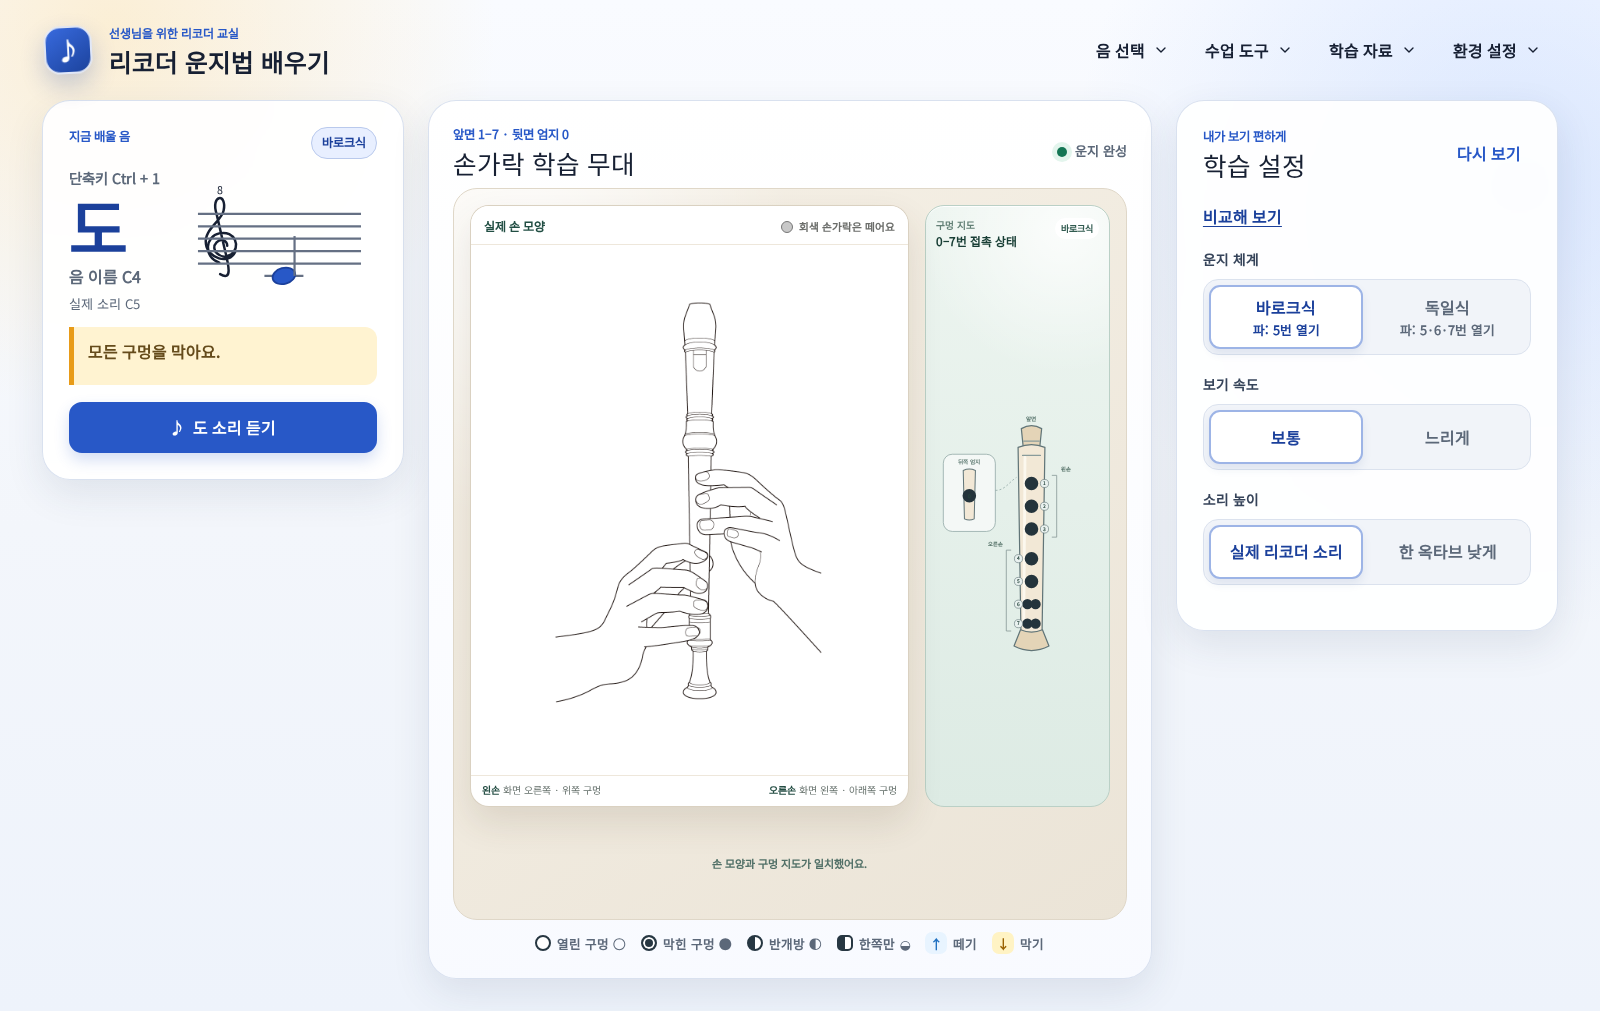
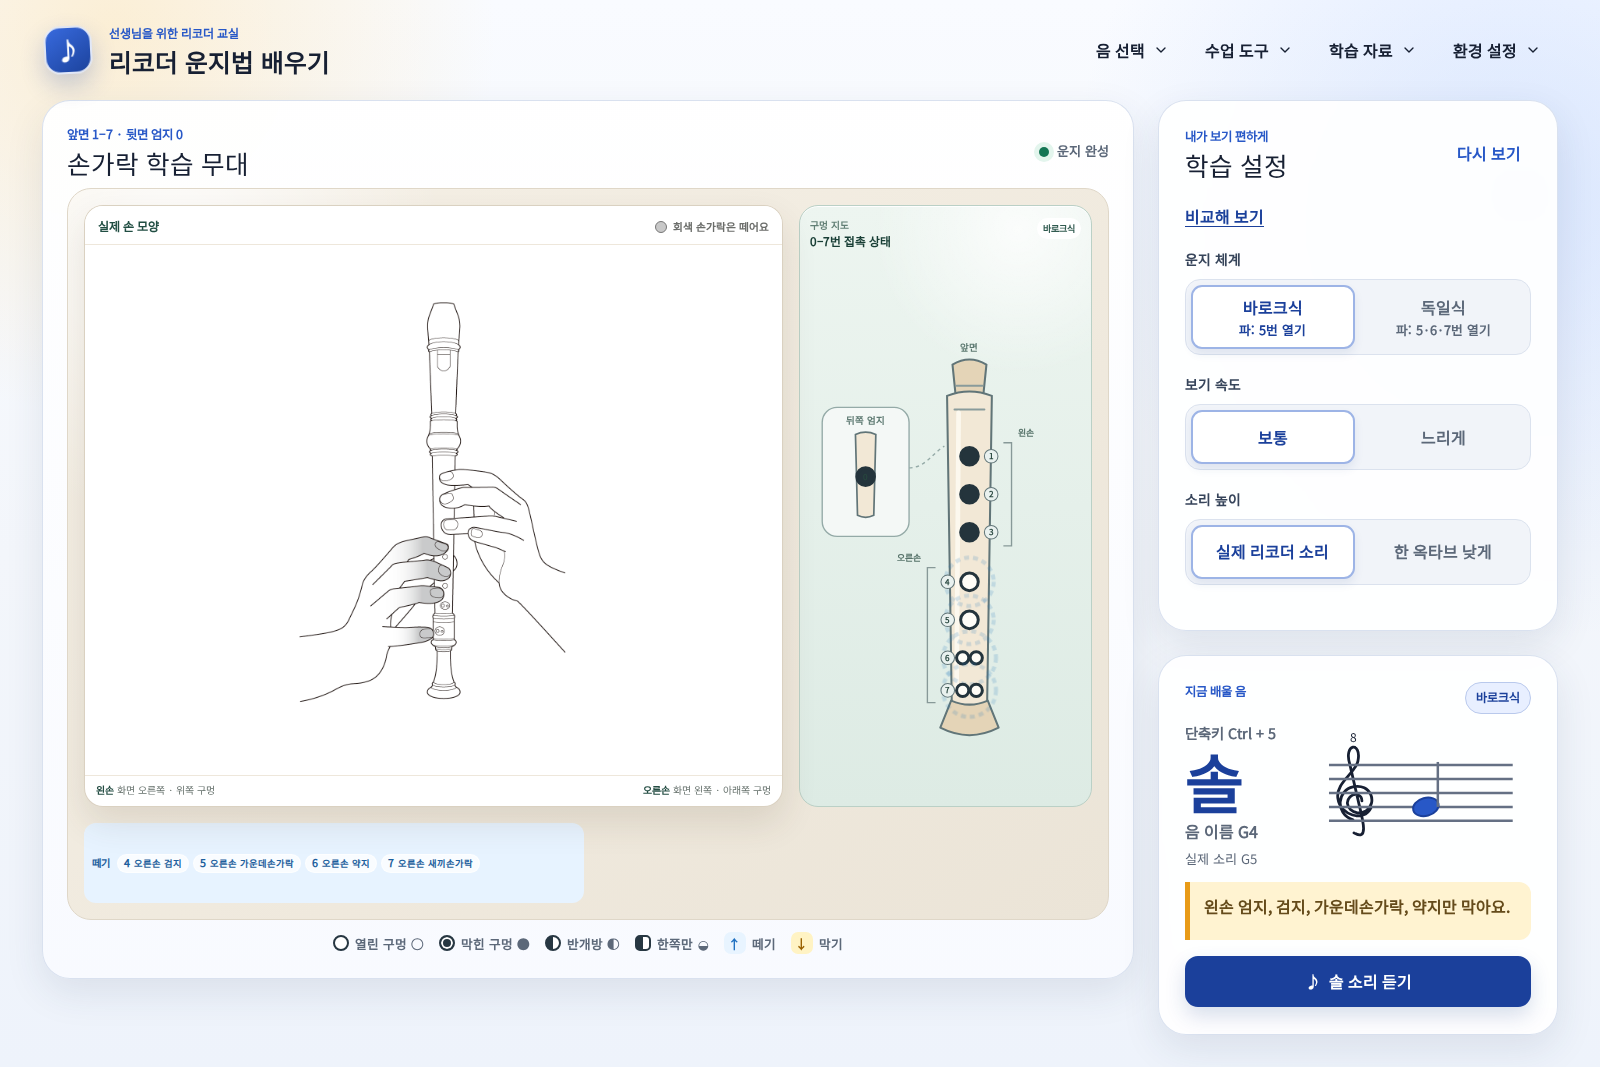
Arrange note panel below settings beside a wider learning stage

diff --git a/app/teacher.css b/app/teacher.css
@@ -1,7 +1,8 @@
 /* Teacher workspace: the three teaching panels stay on the main screen. */
 .recorder-app:not([data-classroom]) .learning-grid {
-  grid-template-columns: minmax(270px, .9fr) minmax(440px, 1.8fr) minmax(300px, .95fr);
-  grid-template-areas: "note scene settings";
+  grid-template-columns: minmax(0, 1fr) minmax(320px, 400px);
+  grid-template-rows: auto 1fr;
+  grid-template-areas: "scene settings" "scene note";
   align-items: start;
 }
 .app-header.teacher-header {
@@ -105,8 +106,7 @@
   .app-header.teacher-header { flex-wrap: wrap; padding-block: 18px; }
   .teacher-navigation { margin-left: auto; }
   .recorder-app:not([data-classroom]) .learning-grid {
-    grid-template-columns: minmax(290px, .85fr) minmax(420px, 1.4fr);
-    grid-template-areas: "note scene" "settings scene";
+    grid-template-columns: minmax(0, 1fr) minmax(300px, .7fr);
     gap: 18px;
   }
 }
@@ -117,7 +117,7 @@
   .teacher-menu-trigger { width: 100%; min-height: 44px; padding: 8px 3px; gap: 4px; font-size: .85rem; }
   .teacher-menu-items { width: 190px; right: auto; left: 0; }
   .teacher-menu:nth-child(n+3) .teacher-menu-items { right: 0; left: auto; }
-  .recorder-app:not([data-classroom]) .learning-grid { grid-template-columns: minmax(0, 1fr); grid-template-areas: "note" "scene" "settings"; gap: 16px; }
+  .recorder-app:not([data-classroom]) .learning-grid { grid-template-columns: minmax(0, 1fr); grid-template-rows: auto; grid-template-areas: "scene" "settings" "note"; gap: 16px; }
   .teacher-dialog-backdrop { padding: 10px; }
   .teacher-dialog { max-height: calc(100dvh - 20px); border-radius: 18px; }
   .teacher-dialog-heading { padding: 16px; }

diff --git a/src/features/recorder/components/RecorderLearningApp.tsx b/src/features/recorder/components/RecorderLearningApp.tsx
@@ -91,16 +91,6 @@ export function RecorderLearningApp() {
       </header>
 
       <main id="learning-stage" className="learning-grid">
-        <div className="note-area" hidden={classroom.active}>
-          <NoteCard
-            note={currentNote}
-            system={system}
-            onPlay={playCurrentNote}
-            muted={preferences.isMuted}
-            shortcutLabel={currentShortcutLabel}
-          />
-        </div>
-
         <section className="card scene-card" aria-labelledby="scene-heading">
           <div className="section-heading-row scene-heading" hidden={classroom.active}>
             <div>
@@ -143,6 +133,15 @@ export function RecorderLearningApp() {
 
         <div className="settings-area" hidden={classroom.active}>
           <SettingsPanel {...settingsProps} />
+        </div>
+        <div className="note-area" hidden={classroom.active}>
+          <NoteCard
+            note={currentNote}
+            system={system}
+            onPlay={playCurrentNote}
+            muted={preferences.isMuted}
+            shortcutLabel={currentShortcutLabel}
+          />
         </div>
         {classroom.active ? <ClassroomControls lesson={lesson} /> : null}
       </main>

diff --git a/e2e/pose-visual.spec.ts b/e2e/pose-visual.spec.ts
@@ -18,6 +18,8 @@ test("twenty aligned poses match reviewed visual baselines", async ({ page }, te
   await page.addStyleTag({ content: `
     .recorder-app:not([data-classroom]) .learning-grid {
       grid-template-columns: minmax(270px, .82fr) minmax(440px, 1.58fr) minmax(315px, .92fr) !important;
+      grid-template-rows: auto !important;
+      grid-template-areas: "note scene settings" !important;
     }
   ` });
   await page.evaluate(() => document.fonts.ready);

diff --git a/README.md b/README.md
@@ -6,6 +6,8 @@
 
 선생님이 수업 중 운지를 크게 보여 줄 수 있도록 메인은 **손가락 학습 무대 · 지금 배울 음 · 학습 설정** 세 영역으로 구성합니다. 학습 설정에는 운지 체계, 보기 속도, 소리 높이만 기본 표시하고 비교해 보기와 다시 보기를 제공합니다. 그 밖의 기능은 다음 상위·하위 메뉴에서 엽니다.
 
+넓은 화면에서는 운지 학습 무대가 왼쪽을 넓게 사용하고, 오른쪽에는 학습 설정과 지금 배울 음이 위아래로 정렬됩니다. 휴대폰에서는 학습 무대 → 학습 설정 → 지금 배울 음 순서로 표시됩니다.
+
 | 상위 메뉴 | 하위 메뉴 |
 |---|---|
 | 음 선택 | 낮은 계이름 · 높은 계이름 · 반음 |

diff --git a/CHANGELOG.md b/CHANGELOG.md
@@ -6,6 +6,7 @@
 
 ### Changed
 
+- 지금 배울 음 패널을 오른쪽 학습 설정 아래로 옮기고, 왼쪽 운지 학습 무대를 넓힌 2열 레이아웃으로 정렬. 화면의 읽기·키보드 탐색 순서도 배치에 맞춤.
 - 선생님용 메인 화면을 손가락 학습 무대, 지금 배울 음, 학습 설정 세 영역으로 정리.
 - 음 선택(낮은 음·높은 음·반음), 수업 도구(수업 모드·연습 코스·손가락 안내), 학습 자료(기초 배우기·운지 비교·퀴즈), 환경 설정(화면·소리·체계 안내·도움말)의 상위·하위 메뉴로 기존 기능 이동.
 - 학습 설정 기본 표시는 운지 체계·보기 속도·소리 높이로 축소하고 나머지 설정은 메뉴에서 제공.
